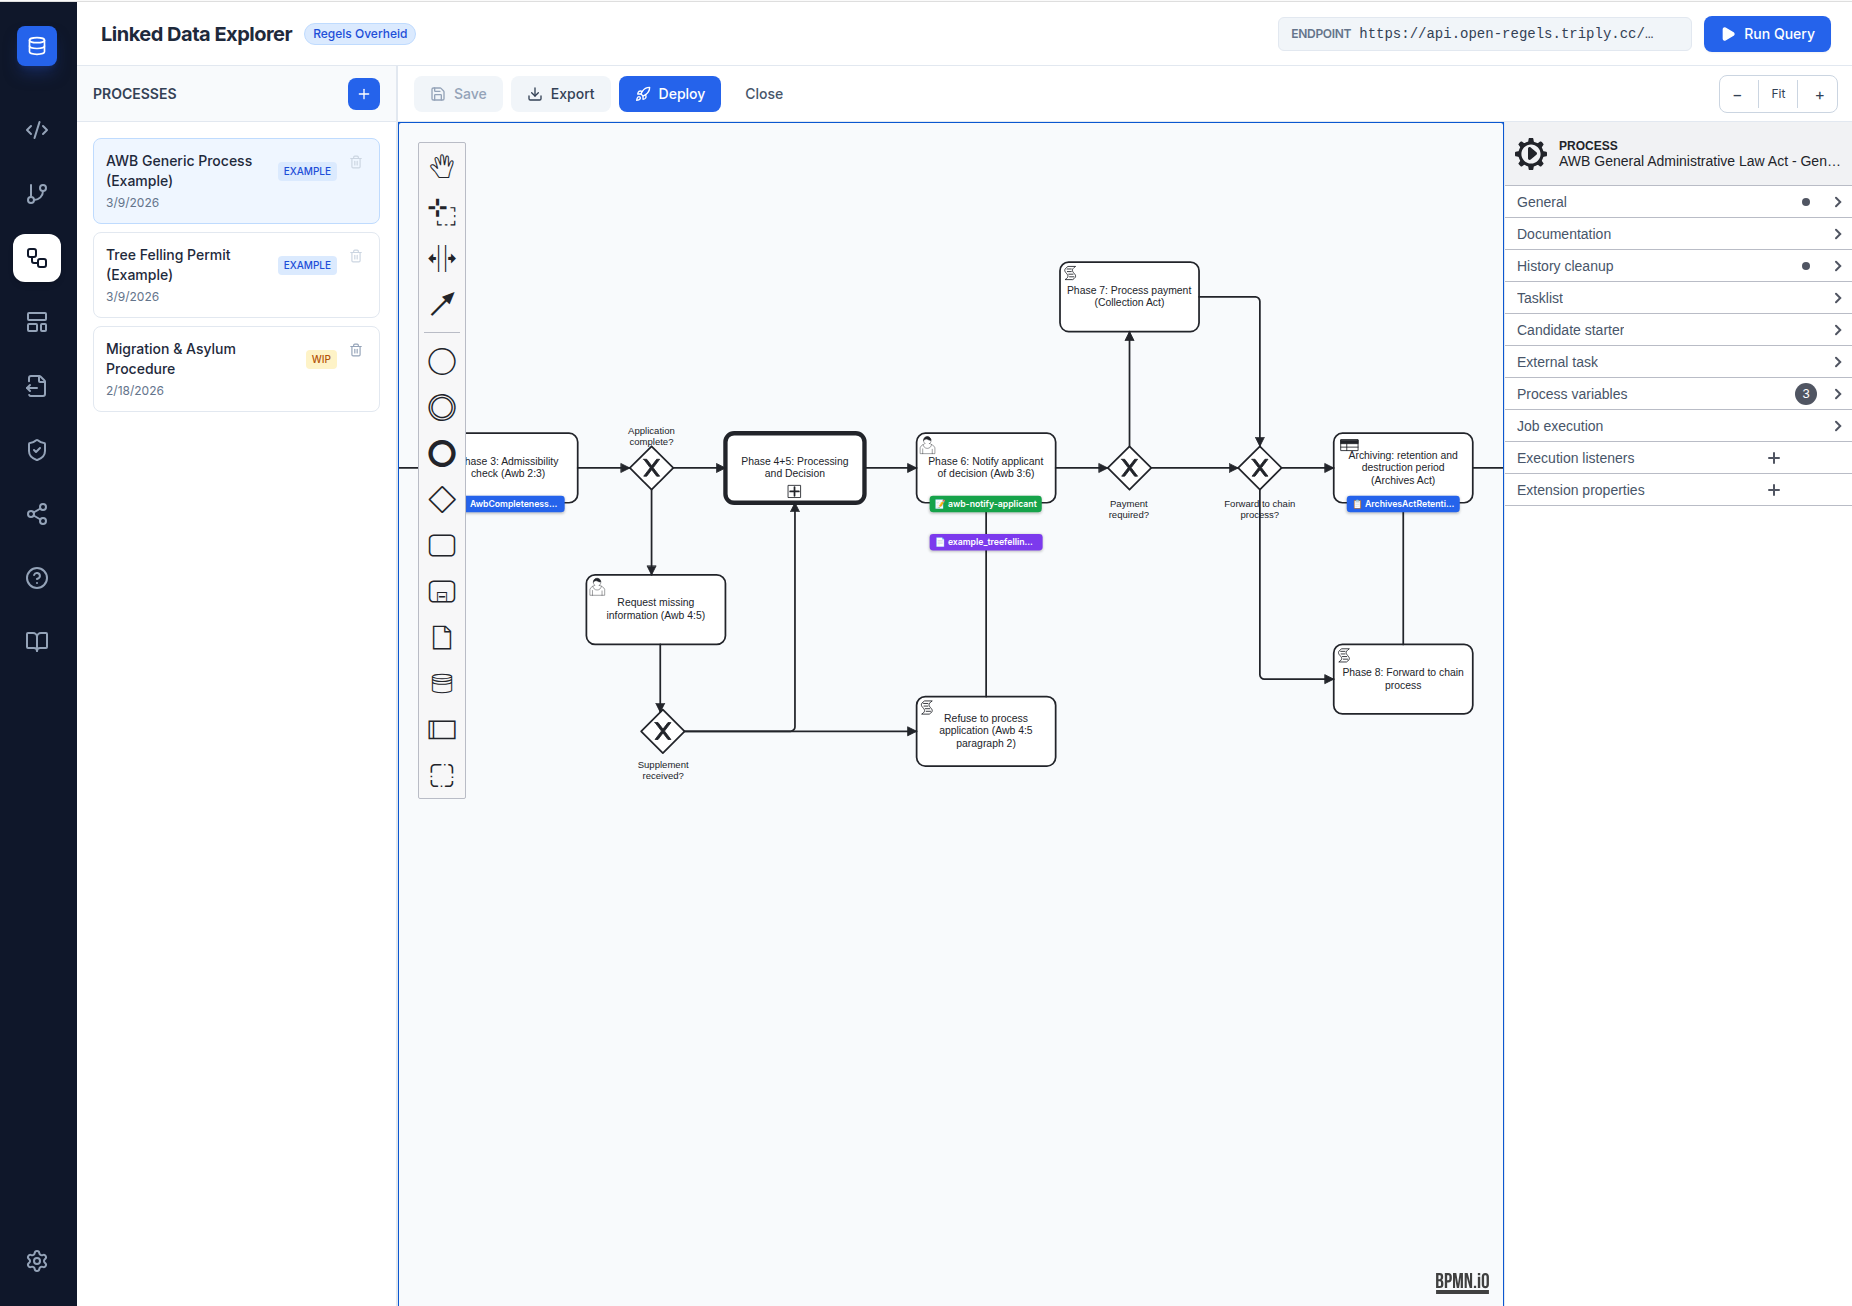
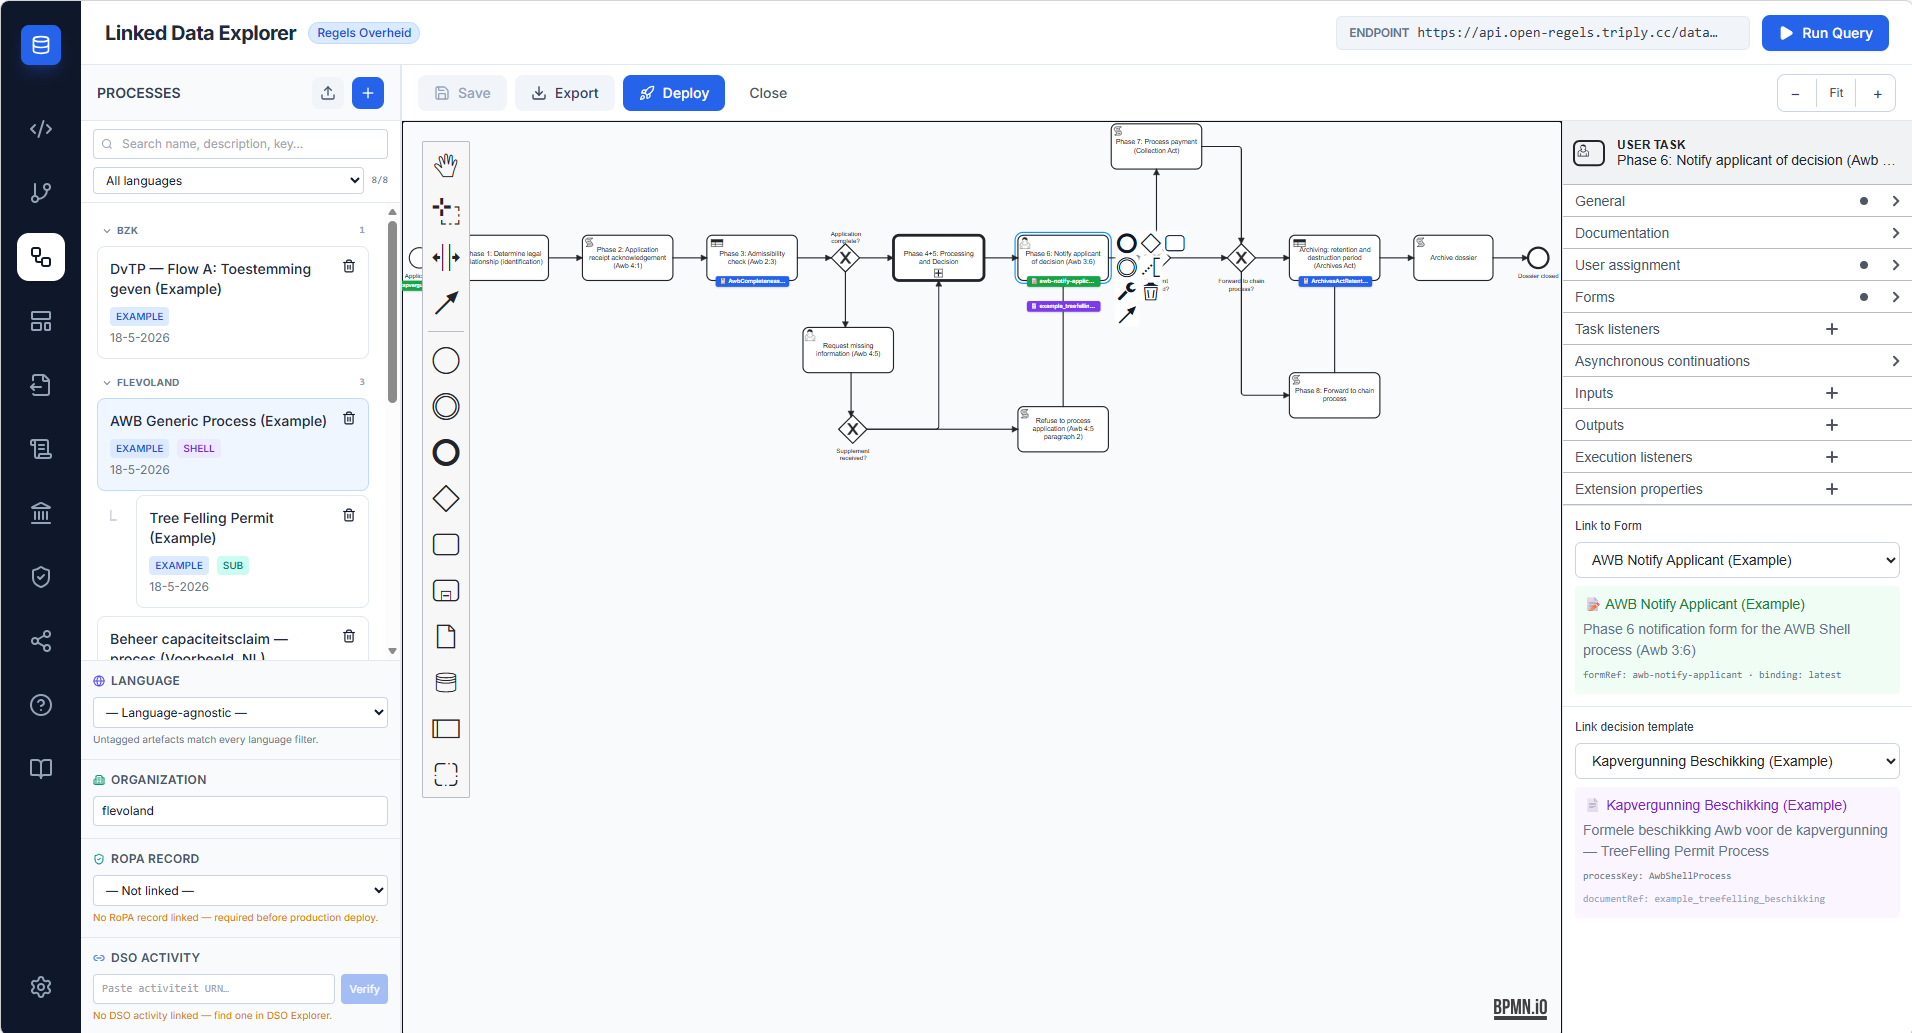
fix warnings and renaming multiple interacting rules example

diff --git a/docs/nl/linked-data-explorer/reference/api-reference.md b/docs/nl/linked-data-explorer/reference/api-reference.md
@@ -57,6 +57,42 @@
 
 ---
 
+## eDOCS
+
+### `GET /v1/edocs/status`
+
+### `POST /v1/edocs/workspaces/ensure`
+
+### `POST /v1/edocs/documents`
+
+### `GET /v1/edocs/workspaces/:workspaceId/documents`
+
+---
+
+## Asset Storage
+
+### `GET /v1/assets/bpmn`
+
+### `POST /v1/assets/bpmn`
+
+### `DELETE /v1/assets/bpmn/:id`
+
+### `GET /v1/assets/bpmn/by-bpmn-id/:bpmnProcessId`
+
+### `GET /v1/assets/forms`
+
+### `POST /v1/assets/forms`
+
+### `DELETE /v1/assets/forms/:id`
+
+### `GET /v1/assets/documents`
+
+### `POST /v1/assets/documents`
+
+### `DELETE /v1/assets/documents/:id`
+
+---
+
 ## Error responses
 
 ---

diff --git a/docs/nl/linked-data-explorer/features/multilingualism.md b/docs/nl/linked-data-explorer/features/multilingualism.md
@@ -1,9 +1,8 @@
 # Meertaligheid
 
 !!! info "Documentatie in ontwikkeling"
-    Deze pagina is nog niet vertaald. Raadpleeg voorlopig de [Engelse versie](../../features/multilingualism.md) voor de volledige inhoud.
-
-    **Status:** Engelse versie compleet — Nederlandse vertaling staat gepland.
+    De Nederlandse vertaling van deze pagina is nog niet beschikbaar.
+    Raadpleeg de <a href="/linked-data-explorer/features/multilingualism/">Engelse versie</a> voor de huidige inhoud.
 
 ## Overzicht
 
@@ -48,6 +47,6 @@ De form-js properties-panel verliest focus bij een korte pauze tijdens typen —
 ## Verwante pagina's
 
 - [Meertaligheid-gebruikershandleiding](../user-guide/multilingualism.md)
-- [BPMN Modeler — taal en organisatie](bpmn-modeler.md#taal-en-organisatie)
-- [Form Editor — taal en organisatie](form-editor.md#taal-en-organisatie)
-- [Document Composer — taal en organisatie](document-composer.md#taal-en-organisatie)
+- [BPMN Modeler — taal en organisatie](bpmn-modeler.md)
+- [Form Editor — taal en organisatie](form-editor.md)
+- [Document Composer — taal en organisatie](document-composer.md)

diff --git a/docs/nl/linked-data-explorer/features/dso-integration.md b/docs/nl/linked-data-explorer/features/dso-integration.md
@@ -1,9 +1,8 @@
 # DSO-integratie
 
 !!! info "Documentatie in ontwikkeling"
-    Deze pagina is nog niet vertaald. Raadpleeg voorlopig de [Engelse versie](../../features/dso-integration.md) voor de volledige inhoud.
-
-    **Status:** Engelse versie compleet — Nederlandse vertaling staat gepland.
+    De Nederlandse vertaling van deze pagina is nog niet beschikbaar.
+    Raadpleeg de <a href="/linked-data-explorer/features/dso-integration/">Engelse versie</a> voor de huidige inhoud.
 
 ## Overzicht
 

diff --git a/docs/nl/linked-data-explorer/user-guide/dso-explorer.md b/docs/nl/linked-data-explorer/user-guide/dso-explorer.md
@@ -1,9 +1,8 @@
 # DSO Explorer
 
 !!! info "Documentatie in ontwikkeling"
-    Deze pagina is nog niet vertaald. Raadpleeg voorlopig de [Engelse versie](../../user-guide/dso-explorer.md) voor de volledige inhoud.
-
-    **Status:** Engelse versie compleet — Nederlandse vertaling staat gepland.
+    De Nederlandse vertaling van deze pagina is nog niet beschikbaar.
+    Raadpleeg de <a href="/linked-data-explorer/features/dso-explorer/">Engelse versie</a> voor de huidige inhoud.
 
 ## Voorbereiding
 

diff --git a/docs/nl/ronl-business-api/features/caseworker-dashboard-v2.md b/docs/nl/ronl-business-api/features/caseworker-dashboard-v2.md
@@ -1,4 +1,5 @@
 # Caseworker Dashboard (V2)
 
-!!! info "Vertaling volgt"
-    De Nederlandse vertaling van deze pagina is nog niet beschikbaar. Raadpleeg voorlopig de [Engelse versie](../../../en/ronl-business-api/features/caseworker-dashboard-v2/).
+!!! info "Documentatie in ontwikkeling"
+    De Nederlandse vertaling van deze pagina is nog niet beschikbaar.
+    Raadpleeg de <a href="/ronl-business-api/features/caseworker-dashboard-v2/">Engelse versie</a> voor de huidige inhoud.

diff --git a/docs/en/linked-data-explorer/developer/document-composer.md b/docs/en/linked-data-explorer/developer/document-composer.md
@@ -151,7 +151,7 @@ The backend queries the Operaton history API for all variables present in comple
 
 ## DocumentTemplateSelector — BPMN integration
 
-`DocumentTemplateSelector` (`BpmnModeler/DocumentTemplateSelector.tsx`) is injected into the bpmn-js properties panel alongside `FormTemplateSelector` whenever a `UserTask` is selected. It follows the identical injection pattern (see [BPMN Modeler developer docs](bpmn-modeler.md#formtemplateselector--form-linking-for-usertask-and-startevent)):
+`DocumentTemplateSelector` (`BpmnModeler/DocumentTemplateSelector.tsx`) is injected into the bpmn-js properties panel alongside `FormTemplateSelector` whenever a `UserTask` is selected. It follows the identical injection pattern (see [BPMN Modeler developer docs](bpmn-modeler.md#formtemplateselector-form-linking-for-usertask-and-startevent)):
 
 ```typescript
 // BpmnCanvas.tsx — inside selectionChanged, after FormTemplateSelector injection
@@ -205,5 +205,5 @@ Clicking **Export .document** serialises the `DocumentTemplate` object to JSON a
 
 - [Document Composer features](../features/document-composer.md)
 - [Document Composer user guide](../user-guide/document-composer.md)
-- [BPMN Modeler developer docs — FormTemplateSelector](bpmn-modeler.md#formtemplateselector--form-linking-for-usertask-and-startevent)
+- [BPMN Modeler developer docs — FormTemplateSelector](bpmn-modeler.md#formtemplateselector-form-linking-for-usertask-and-startevent)
 - [Frontend Architecture](frontend.md) — ViewMode enum, localStorage key conventions

diff --git a/docs/en/ronl-business-api/developer/changelog-roadmap.md b/docs/en/ronl-business-api/developer/changelog-roadmap.md
@@ -35,11 +35,11 @@ See [Caseworker Dashboard (V2)](../features/caseworker-dashboard-v2.md).
 
 ### DvTP consent flow (v3.0.1)
 
-`DvtpStartSection` / `DvtpTakenSection` added under Werk → DVTP, gated to `municipality` org types. Starts the `DvtpToestemmingGevenProcess` BPMN via `ProcessStartFormViewer`. `dvtp` feature flag added to `tenants.json`. See [DvTP Consent Flow](../features/dvtp-consent-flow.md).
+`DvtpStartSection` / `DvtpTakenSection` added under Werk → DVTP, gated to `municipality` org types. Starts the `DvtpToestemmingGevenProcess` BPMN via `ProcessStartFormViewer`. `dvtp` feature flag added to `tenants.json`.
 
 ### Management Capacity Claim (v3.0.2)
 
-`ManagementCapacityClaimProcess` BPMN + `/v1/hr-capacity/*` routes (`capacity.routes.ts`). `CapacityClaimSection` (manager-gated), `CapacityClaimArchiefSection`, inline `CapacityClaimDocumentsViewer`. Nine new realm roles. Role-based `candidateGroups` task queue filtering. See [Management Capacity Claim](../features/management-capacity-claim.md).
+`ManagementCapacityClaimProcess` BPMN + `/v1/hr-capacity/*` routes (`capacity.routes.ts`). `CapacityClaimSection` (manager-gated), `CapacityClaimArchiefSection`, inline `CapacityClaimDocumentsViewer`. Nine new realm roles. Role-based `candidateGroups` task queue filtering.
 
 ### Nieuws RSS feed migration → revert
 

diff --git a/docs/en/ronl-business-api/features/dynamic-forms.md b/docs/en/ronl-business-api/features/dynamic-forms.md
@@ -128,7 +128,7 @@ See [API Endpoints](../references/api-endpoints.md) for full details and error c
 - [LDE Form Editor](../../../linked-data-explorer/features/form-editor.md) — authoring Camunda Forms
 - [LDE Document Composer](../../../linked-data-explorer/features/document-composer.md) — authoring DocumentTemplates
 - [LDE BPMN Modeler — Form linking](../../../linked-data-explorer/features/bpmn-modeler.md#form-linking) — linking forms to BPMN elements
-- [LDE BPMN Modeler — Document linking](../../../linked-data-explorer/features/bpmn-modeler.md#document-linking) — linking document templates to BPMN elements
+- [LDE BPMN Modeler — Document linking](../../../linked-data-explorer/features/bpmn-modeler.md#document-template-linking) — linking document templates to BPMN elements
 - [Submitting an Application](../user-guide/submitting-application.md) — citizen perspective
 - [Caseworker Workflow](../user-guide/caseworker-workflow.md) — caseworker perspective
-- [Frontend Development — Camunda Forms](../developer/frontend-development.md#camunda-forms----bpmn-ioform-js) — component reference
+- [Frontend Development — Camunda Forms](../developer/frontend-development.md#camunda-forms-bpmn-ioform-js) — component reference

diff --git a/docs/nl/linked-data-explorer/features/dso-integration-phase-plan.md b/docs/nl/linked-data-explorer/features/dso-integration-phase-plan.md
@@ -1,5 +1,9 @@
 # DSO Integration — Phase Plan & Test Guidance
 
+!!! info "Documentatie in ontwikkeling"
+    De Nederlandse vertaling van deze pagina is nog niet beschikbaar.
+    Raadpleeg de <a href="/linked-data-explorer/features/dso-integration-phase-plan/">Engelse versie</a> voor de huidige inhoud.
+
 ## Phased approach
 
 ---

diff --git a/docs/en/contributing/index.md b/docs/en/contributing/index.md
@@ -51,7 +51,7 @@ For component-specific development setup, refer to each component's Developer Do
 
 ## How to Contribute for Users
 
- [Submit a use case →](/use-case-form.html){ .md-button .md-button--primary }
+ [Submit a use case →](../../use-case-form.html){ .md-button .md-button--primary }
 
 ## How to Contribute for Developers
 

diff --git a/docs/en/linked-data-explorer/user-guide/dso-explorer.md b/docs/en/linked-data-explorer/user-guide/dso-explorer.md
@@ -7,7 +7,7 @@ A step-by-step walkthrough for searching the Digitaal Stelsel Omgevingswet from 
 ## Before you start
 
 - Open LDE and navigate to the **DSO Explorer** view in the sidebar (the globe icon).
-- Decide which DSO environment you need. Most authority data is published in pre-production first; production carries the authoritative live ruleset. Test anchors per environment are listed in [DSO Integration Phase Plan](../features/dso-integration-phase-plan.md#current-state--v153).
+- Decide which DSO environment you need. Most authority data is published in pre-production first; production carries the authoritative live ruleset. Test anchors per environment are listed in [DSO Integration Phase Plan](../features/dso-integration-phase-plan.md).
 - Confirm the environment in **Settings → DSO environment**. The header badge turns amber for pre-production, green for production.
 
 <figure markdown style="width:100%; margin:0;">

diff --git a/docs/en/ronl-business-api/developer/frontend-development.md b/docs/en/ronl-business-api/developer/frontend-development.md
@@ -465,7 +465,7 @@ On mount, fires two requests in parallel via `Promise.allSettled`:
 
 Caseworker-only fields are excluded from both rendering paths.
 
-See [Dynamic Forms — Decision Viewer](../features/dynamic-forms.md#decision-viewer----decisionviewer) for the feature description.
+See [Dynamic Forms — Decision Viewer](../features/dynamic-forms.md#decision-viewer-decisionviewer) for the feature description.
 
 ---
 